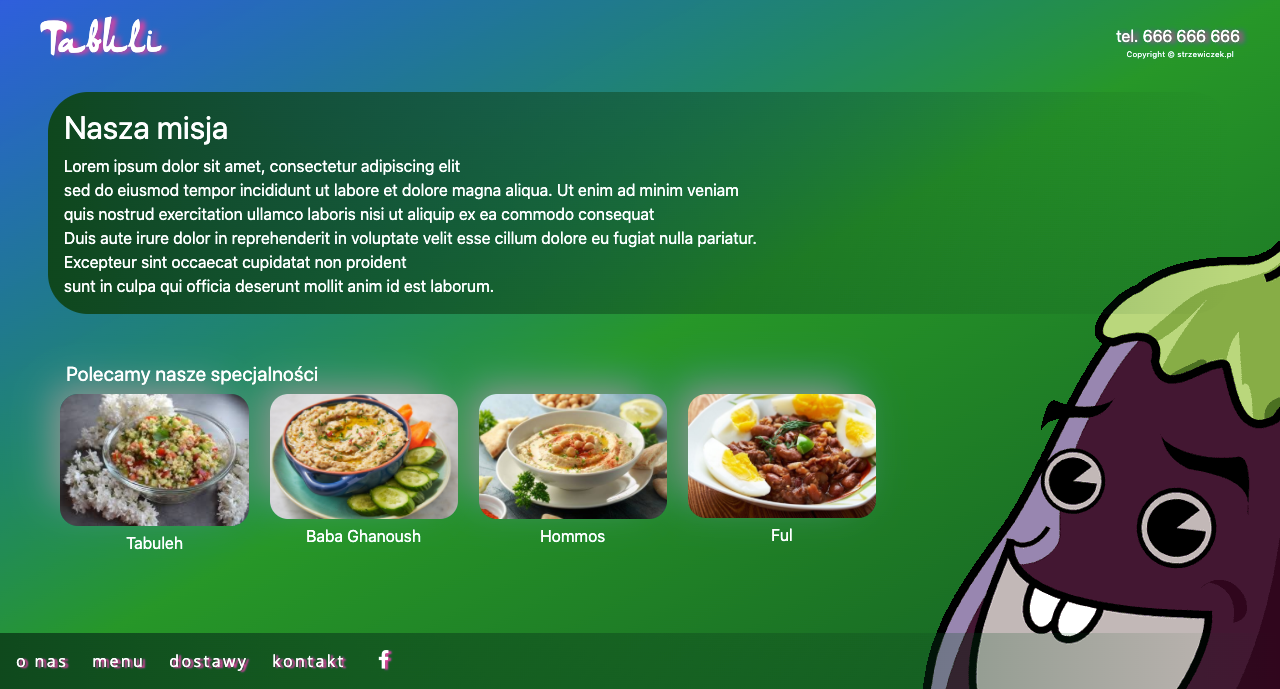
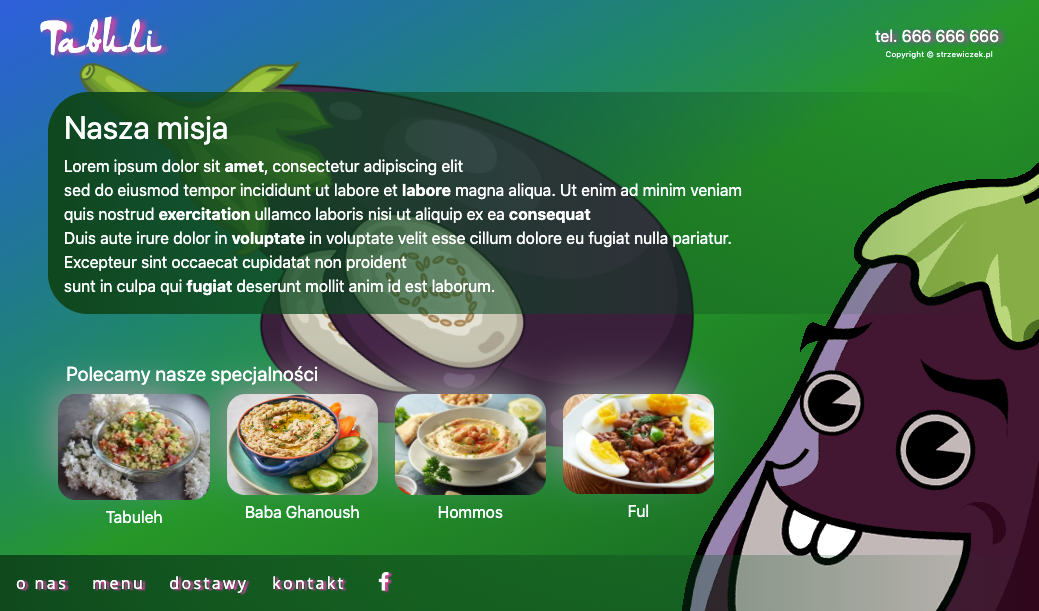
commit master

diff --git a/contanct.html b/contanct.html
@@ -111,29 +111,6 @@
 
                 <iframe src="https://www.google.com/maps/embed?pb=!1m18!1m12!1m3!1d2443.8367179751767!2d21.01037415055339!3d52.22818426546852!2m3!1f0!2f0!3f0!3m2!1i1024!2i768!4f13.1!3m3!1m2!1s0x471eccf246f68fd9%3A0x90cbe31876b6add7!2sMarsza%C5%82kowska%2C%20Warszawa!5e0!3m2!1spl!2spl!4v1587754657584!5m2!1spl!2spl" width="200px" height="240px" style="margin-top: 20px;" frameborder="0"  allowfullscreen="" aria-hidden="false" tabindex="0"></iframe>
 
-                <!--============================================================-->
-                <script src="vendor/jquery/jquery-3.2.1.min.js"></script>
-                <script src="vendor/animsition/js/animsition.min.js"></script>
-                <script src="vendor/bootstrap/js/popper.js"></script>
-                <script src="vendor/bootstrap/js/bootstrap.min.js"></script>
-                <script src="vendor/select2/select2.min.js"></script>
-                <script src="vendor/daterangepicker/moment.min.js"></script>
-                <script src="vendor/daterangepicker/daterangepicker.js"></script>
-                <script src="vendor/countdowntime/countdowntime.js"></script>
-                <script src="js/main.js"></script>
-                <!--============================================================-->
-              
-                <!-- Global site tag (gtag.js) - Google Analytics -->
-                <script async src="https://www.googletagmanager.com/gtag/js?id=UA-23581568-13"></script>
-
-                <script>
-                  window.dataLayer = window.dataLayer || [];
-                  function gtag(){dataLayer.push(arguments);}
-                  gtag('js', new Date());
-                
-                  gtag('config', 'UA-23581568-13');
-                </script>
-
               </div>
 
             </div>
@@ -145,6 +122,8 @@
       </div>
 
       <div class="eggplant"></div>
+
+      <div class="eggplant-2"></div>
 
     </div>
 
@@ -181,6 +160,15 @@
 
     </div>
 
+      <script src="vendor/animsition/js/animsition.min.js"></script>
+      <script src="vendor/select2/select2.min.js"></script>
+      <script src="vendor/daterangepicker/moment.min.js"></script>
+      <script src="vendor/daterangepicker/daterangepicker.js"></script>
+      <script src="vendor/countdowntime/countdowntime.js"></script>
+      <script src="js/main.js"></script>
+
+    <!-- Global site tag (gtag.js) - Google Analytics -->
+    <script async src="https://www.googletagmanager.com/gtag/js?id=UA-23581568-13"></script>
     <script
     src="https://code.jquery.com/jquery-3.5.1.js"
     integrity="sha256-QWo7LDvxbWT2tbbQ97B53yJnYU3WhH/C8ycbRAkjPDc="

diff --git a/js/content.js b/js/content.js
@@ -1,3 +1,9 @@
+window.dataLayer = window.dataLayer || [];
+function gtag(){dataLayer.push(arguments);}
+gtag('js', new Date());
+
+gtag('config', 'UA-23581568-13');
+
 $(function() {
 
     var body = $('body');
@@ -18,10 +24,12 @@ $(function() {
 
     var row1 = $('.row-1');
     row1.addClass('no-gutters ml-5 mr-5 mb-5 p-3');
-    
     row1.css('background-image', 'linear-gradient(to left, transparent, #0f471d)')
         .css('border-radius', '40px');
     row1.effect("slide", {direction: "right"}, "slow");
+
+    var foodGallery = $('.responsive');
+    foodGallery.effect("bounce", 1000);
 
     var tel = $('#telefon');
     tel.css('color', 'white')
@@ -43,13 +51,13 @@ $(function() {
     var strong = $('strong');
     strong.on('mouseenter', function(e){
         $('strong').css('color', '#e441a0')
-                   .css('font-size', '19px');
+        $('strong').animate({ marginLeft: 10,  marginRight: 10}, 'fast');
     });
 
     var strong = $('strong');
     strong.on('mouseleave', function(e){
     $('strong').css('color', 'white')
-               .css('font-size', '16px');
+               .animate({ marginLeft: 0, marginRight: 0}, 'slow');
     });
     
     $( "#dialog" ).dialog({
@@ -62,7 +70,5 @@ $(function() {
     });
 
     $( "#tooltip" ).tooltip();
-
-    
 
 });

diff --git a/index.html b/index.html
@@ -44,6 +44,8 @@
 
       <div class="eggplant"></div>
 
+      <div class="eggplant-2"></div>
+
      <!-- <div class="container-3"></div> -->
 
       <div class="foodGallery">
